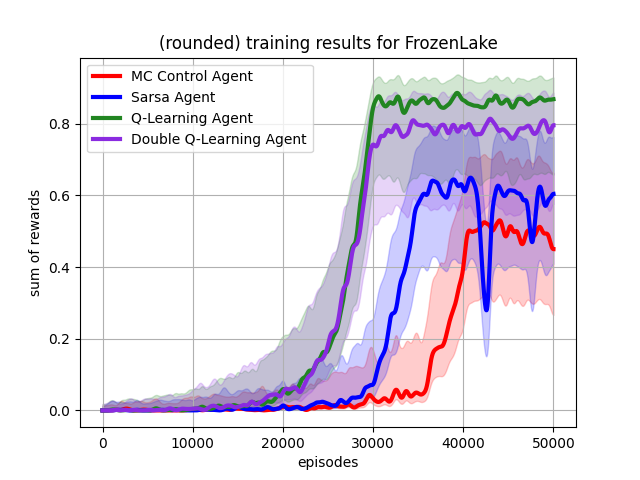
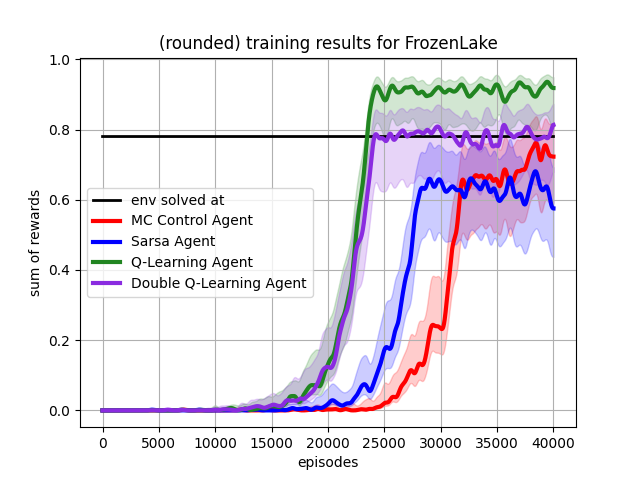
Update readme experiments and table based comparison

diff --git a/utils/visualize_training_results_for_agents.py b/utils/visualize_training_results_for_agents.py
@@ -15,16 +15,17 @@ COLORS = [
 
 
 def visualize_training_results_for_agents(stats_multiple_agents: dict, save_fig=None, train_for='environment',
-                                          zero_zero_start: bool = False) -> None:
+                                          zero_zero_start: bool = False, solved_at: float = None) -> None:
     """
     Giving stats resulted from train_agents function, this function creates an plot to showcase those stats.
-    The average of reward per episodes is a thick line, the area between minimum and maximum is shown as light and
+    The average of reward per episodes is a thick line, the area between 40% quantile and 60% quantile is shown as light and
     transparent color.
 
     :param stats_multiple_agents: return of train_agents function
     :param save_fig: if None, plot will get shown, else plot is stored as image with <save_fig> as filename
     :param train_for: The title of the plot will say '(rounded) training results for <train_for>'
     :param zero_zero_start: starting the graphs of agents by 0 episodes and 0 reward
+    :param solved_at: Marker for graph, as what reward is considered solving the env
     """
     for agent_idx, agent_name in enumerate(stats_multiple_agents.keys()):
         steps_per_repetition = []
@@ -43,9 +44,9 @@ def visualize_training_results_for_agents(stats_multiple_agents: dict, save_fig=
 
         smooth_filter = length_episode / 200
 
-        lower_quantile_rewards_per_episode = np.quantile(rewards_per_episode, 0.25, axis=-1)
+        lower_quantile_rewards_per_episode = np.quantile(rewards_per_episode, 0.4, axis=-1)
         median_rewards_per_episode = np.median(rewards_per_episode, axis=-1)
-        upper_quantile_per_episode = np.quantile(rewards_per_episode, 0.75, axis=-1)
+        upper_quantile_per_episode = np.quantile(rewards_per_episode, 0.6, axis=-1)
 
         lower_quantile_smoothed = list(gaussian_filter1d(lower_quantile_rewards_per_episode, sigma=smooth_filter))
         median_rewards_smoothed = list(gaussian_filter1d(median_rewards_per_episode, sigma=smooth_filter))
@@ -56,6 +57,11 @@ def visualize_training_results_for_agents(stats_multiple_agents: dict, save_fig=
             median_rewards_smoothed.insert(0, 0.0)
             upper_quantile_smoothed.insert(0, 0.0)
 
+        if solved_at is not None:
+            solved_array = [solved_at] * len(median_rewards_smoothed)
+            plt.plot(solved_array, label="env solved at", color="black", linewidth=2)
+            solved_at = None  # draw this line only once
+
         color = COLORS[agent_idx]
         color_light = color.copy()
         color_light.append(0.2)
@@ -65,7 +71,7 @@ def visualize_training_results_for_agents(stats_multiple_agents: dict, save_fig=
     plt.grid()
     plt.ylabel('sum of rewards')
     plt.xlabel('episodes')
-    plt.legend(loc='upper left')
+    plt.legend(loc='center left')
     plt.title(f'(rounded) training results for {train_for}')
     if save_fig:
         plt.savefig('plots/' + save_fig)

diff --git a/experiments/comparison_table_based_methods.py b/experiments/comparison_table_based_methods.py
@@ -10,7 +10,7 @@ The results are visualized in a graph stored in an image.
 """
 
 # Hyperparameters:
-training_episodes = 50000
+training_episodes = 40000
 
 # hp for monte carlo agent(mc)
 mc_hp = dict()
@@ -26,8 +26,8 @@ s_hp = dict()
 s_hp['epsilon'] = 1
 s_hp['epsilon_min'] = 0.01
 s_hp['epsilon_reduction'] = (s_hp['epsilon'] - s_hp['epsilon_min']) / (training_episodes * 0.7)
-s_hp['alpha'] = 0.05
-s_hp['alpha_min'] = s_hp['alpha'] / 5
+s_hp['alpha'] = 0.03
+s_hp['alpha_min'] = s_hp['alpha'] / 10
 s_hp['alpha_reduction'] = (s_hp['alpha'] - s_hp['alpha_min']) / (training_episodes * 0.7)
 
 
@@ -36,7 +36,7 @@ q_hp = dict()
 q_hp['epsilon'] = 1
 q_hp['epsilon_min'] = 0.01
 q_hp['epsilon_reduction'] = (q_hp['epsilon'] - q_hp['epsilon_min']) / (training_episodes * 0.6)
-q_hp['alpha'] = 0.05
+q_hp['alpha'] = 0.04
 q_hp['alpha_min'] = q_hp['alpha'] / 10
 q_hp['alpha_reduction'] = (q_hp['alpha'] - q_hp['alpha_min']) / (training_episodes * 0.6)
 
@@ -51,6 +51,7 @@ dq_hp['alpha_reduction'] = (dq_hp['alpha'] - dq_hp['alpha_min']) / (training_epi
 
 
 env = FrozenLakeEnv()
+FROZEN_LAKE_SOLVED_AT = 0.78  # as gym.openai states
 
 mc_agent = MCControlAgent(env, **mc_hp)
 sarsa_agent = SarsaAgent(env, **s_hp)
@@ -58,9 +59,9 @@ q_agent = QLearningAgent(env, **q_hp)
 double_q_agent = DoubleQLearningAgent(env, **dq_hp)
 
 stats = train_agents(env, [mc_agent, sarsa_agent, q_agent, double_q_agent],
-                     training_episodes=training_episodes, repetitions=3)
+                     training_episodes=training_episodes, repetitions=5)
 visualize_training_results_for_agents(stats, save_fig='table_based_models_frozen_lake.png',
-                                      train_for='FrozenLake')
+                                      train_for='FrozenLake', solved_at=FROZEN_LAKE_SOLVED_AT)
 
 
 
